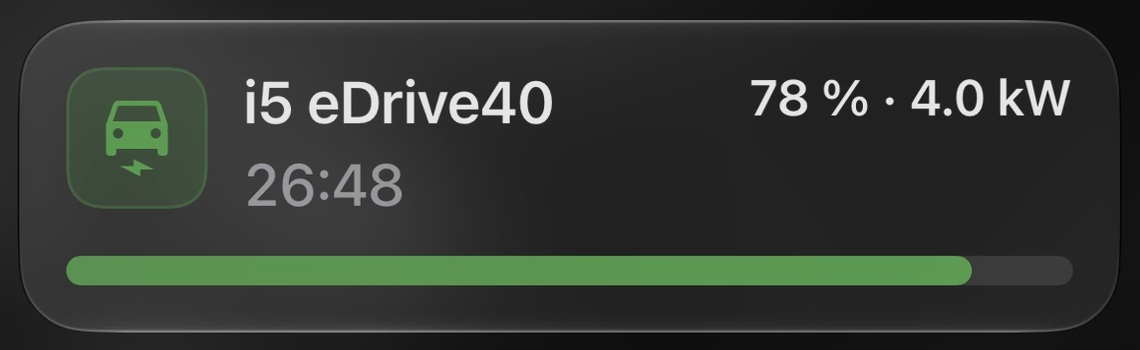
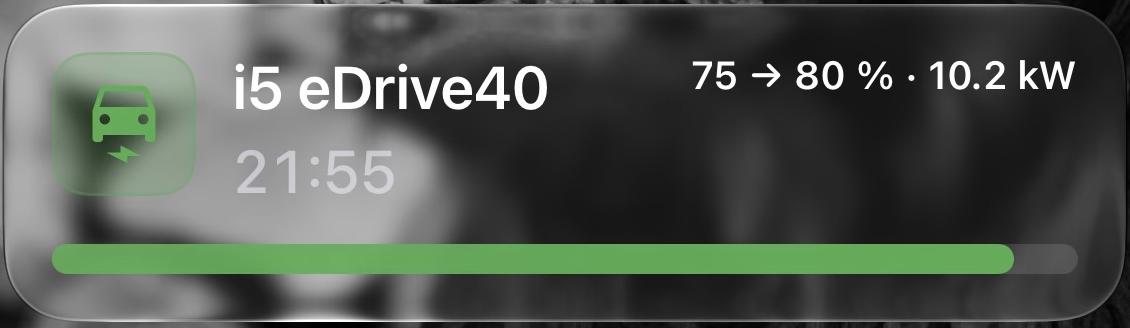
Name the target in the lock-screen card's corner
While the countdown runs it takes the message line, which hid the target.
The corner now reads "75 → 80 % · 10.2 kW". New charging picture for the
wiki, shot on the restyled card.

diff --git a/tests_ha/test_blueprint_lock_screen.py b/tests_ha/test_blueprint_lock_screen.py
@@ -138,7 +138,7 @@ async def test_a_charge_runs_from_start_to_cleared(hass: HomeAssistant, tmp_path
     assert card["live_update"] is True
     # The bar is the battery, up to the target.
     assert (card["progress"], card["progress_max"]) == (52, 80)
-    assert card["critical_text"] == f"52{NB}% · 10.8{NB}kW"
+    assert card["critical_text"] == f"52{NB}→{NB}80{NB}% · 10.8{NB}kW"
     assert card["chronometer"] is True
     assert (card["when"], card["when_relative"]) == (3600, True)
 
@@ -186,7 +186,7 @@ async def test_without_a_countdown_or_power_the_card_still_shows(hass: HomeAssis
     (first,) = calls
     assert first.data["title"] == "i5 eDrive40"
     assert first.data["message"] == f"→{NB}80{NB}%"
-    assert first.data["data"]["critical_text"] == f"52{NB}%"
+    assert first.data["data"]["critical_text"] == f"52{NB}→{NB}80{NB}%"
     assert first.data["data"]["chronometer"] is False
 
 
@@ -203,7 +203,7 @@ async def test_watts_read_as_kilowatts(hass: HomeAssistant) -> None:
     hass.bus.async_fire("bavariandata_charging_started", {"vin": VIN, "soc": 40, "target_soc": 80})
     await _settle()
 
-    assert calls[0].data["data"]["critical_text"] == f"52{NB}% · 4.0{NB}kW"
+    assert calls[0].data["data"]["critical_text"] == f"52{NB}→{NB}80{NB}% · 4.0{NB}kW"
 
 
 async def test_a_change_in_power_refreshes_the_card_at_once(hass: HomeAssistant) -> None:
@@ -228,7 +228,7 @@ async def test_a_change_in_power_refreshes_the_card_at_once(hass: HomeAssistant)
     hass.states.async_set(power, "7.2", {**hass.states.get(power).attributes})
     await _settle()
     assert len(calls) == 2
-    assert calls[-1].data["data"]["critical_text"] == f"52{NB}% · 7.2{NB}kW"
+    assert calls[-1].data["data"]["critical_text"] == f"52{NB}→{NB}80{NB}% · 7.2{NB}kW"
 
     # Measured from the card's new 7.2 kW, not from where the charge started.
     hass.states.async_set(power, "7.6", {**hass.states.get(power).attributes})
@@ -239,7 +239,7 @@ async def test_a_change_in_power_refreshes_the_card_at_once(hass: HomeAssistant)
     hass.states.async_set(power, "0", {**hass.states.get(power).attributes})
     await _settle()
     assert len(calls) == 3
-    assert calls[-1].data["data"]["critical_text"] == f"52{NB}%"
+    assert calls[-1].data["data"]["critical_text"] == f"52{NB}→{NB}80{NB}%"
 
 
 def _tracker(hass: HomeAssistant, device: str, state: str) -> str:
@@ -260,24 +260,24 @@ async def test_the_wallbox_power_is_shown_while_the_car_is_at_home(hass: HomeAss
     # The wallbox hasn't started yet: BMW's value.
     hass.bus.async_fire("bavariandata_charging_started", {"vin": VIN, "soc": 40, "target_soc": 80})
     await _settle()
-    assert calls[-1].data["data"]["critical_text"] == f"52{NB}% · 10.8{NB}kW"
+    assert calls[-1].data["data"]["critical_text"] == f"52{NB}→{NB}80{NB}% · 10.8{NB}kW"
 
     # It starts: the card switches to it at once.
     hass.states.async_set(wallbox, "4120", {**hass.states.get(wallbox).attributes})
     await _settle()
     assert len(calls) == 2
-    assert calls[-1].data["data"]["critical_text"] == f"52{NB}% · 4.1{NB}kW"
+    assert calls[-1].data["data"]["critical_text"] == f"52{NB}→{NB}80{NB}% · 4.1{NB}kW"
 
     # The current goes up; BMW's value stays where it was.
     hass.states.async_set(wallbox, "10150", {**hass.states.get(wallbox).attributes})
     await _settle()
     assert len(calls) == 3
-    assert calls[-1].data["data"]["critical_text"] == f"52{NB}% · 10.2{NB}kW"
+    assert calls[-1].data["data"]["critical_text"] == f"52{NB}→{NB}80{NB}% · 10.2{NB}kW"
 
     # Away from home the wallbox isn't this car's: BMW's value again.
     hass.states.async_set(tracker, "not_home")
     await _later(hass, 2.1)
-    assert calls[-1].data["data"]["critical_text"] == f"52{NB}% · 10.8{NB}kW"
+    assert calls[-1].data["data"]["critical_text"] == f"52{NB}→{NB}80{NB}% · 10.8{NB}kW"
 
 
 async def test_a_stop_short_of_the_target_says_so(hass: HomeAssistant) -> None:

diff --git a/docs/wiki/de/DE-Feature-Automations.md b/docs/wiki/de/DE-Feature-Automations.md
@@ -225,10 +225,11 @@ liegen, sodass Automationen daraus weiter funktionieren.
 - **Laden auf dem Sperrbildschirm** —
   [`charging_lock_screen.yaml`](https://github.com/JustChr/BavarianData/blob/main/blueprints/automation/bavariandata/charging_lock_screen.yaml).
   Solange das Auto lädt, zeigt der Sperrbildschirm deines Handys eine Karte:
-  die Batterie als Balken bis zum Ziel, den Ladestand, die Ladeleistung und
-  einen Countdown bis zum Ziel, den das Handy selbst herunterzählt.
+  die Batterie als Balken bis zum Ziel, den Ladestand mit dem Ziel, die
+  Ladeleistung und einen Countdown bis zum Ziel, den das Handy selbst
+  herunterzählt.
 
-  <img src="https://raw.githubusercontent.com/JustChr/BavarianData/main/screenshots/automation-lock-screen-charging.png?v=2026-11-02" alt="Eine Live-Aktivität auf dem Sperrbildschirm eines iPhones: der Name des Autos, 78 % · 4.0 kW in der Ecke, ein Countdown von 26:48 bis zum Ziel und ein fast voller Balken" width="420" />
+  <img src="https://raw.githubusercontent.com/JustChr/BavarianData/main/screenshots/automation-lock-screen-charging.png?v=2026-11-03" alt="Eine Live-Aktivität auf dem Sperrbildschirm eines iPhones: der Name des Autos, 75 → 80 % · 10.2 kW in der Ecke, ein Countdown von 21:55 bis zum Ziel und der Batteriebalken fast beim Ziel" width="420" />
 
   Auf einem iPhone mit Dynamic Island läuft der Countdown auch dort.
 

diff --git a/docs/wiki/Feature-Automations.md b/docs/wiki/Feature-Automations.md
@@ -215,10 +215,10 @@ integration leaves every copy, so an automation made from one keeps working.
 - **Charging on the lock screen** —
   [`charging_lock_screen.yaml`](https://github.com/JustChr/BavarianData/blob/main/blueprints/automation/bavariandata/charging_lock_screen.yaml).
   While the car charges, your phone's lock screen shows a card: the battery as
-  a bar up to the target, the battery level and the charging power, and a
-  countdown to the target that the phone runs by itself.
+  a bar up to the target, the battery level with the target and the charging
+  power, and a countdown to the target that the phone runs by itself.
 
-  <img src="https://raw.githubusercontent.com/JustChr/BavarianData/main/screenshots/automation-lock-screen-charging.png?v=2026-11-02" alt="A Live Activity on an iPhone lock screen: the car's name, 78 % · 4.0 kW in the corner, a countdown of 26:48 to the target and a bar most of the way full" width="420" />
+  <img src="https://raw.githubusercontent.com/JustChr/BavarianData/main/screenshots/automation-lock-screen-charging.png?v=2026-11-03" alt="A Live Activity on an iPhone lock screen: the car's name, 75 → 80 % · 10.2 kW in the corner, a countdown of 21:55 to the target and the battery bar nearly up to the target" width="420" />
 
   On an iPhone with a Dynamic Island, the countdown runs there too.
 

diff --git a/CHANGELOG.md b/CHANGELOG.md
@@ -12,9 +12,10 @@ stable release (v0.8.1); releases before that used auto-generated notes.
 ### Changed
 - **A clearer lock-screen card.** *Charging on the lock screen* shows the
   battery as a bar up to the target, so a charge no longer starts on an empty
-  bar. Without a countdown, the line under the car's name shows the target and
-  the energy so far (`→ 80 % · +6.3 kWh`) rather than repeating the level and
-  power from the corner. The finished card says how long the charge took, and
+  bar, and the corner names the target next to the level and the power
+  (`75 → 80 % · 10.2 kW`), where the countdown used to hide it. Without a
+  countdown, the line under the car's name shows the target and the energy so
+  far (`→ 80 % · +6.3 kWh`) rather than repeating the corner. The finished card says how long the charge took, and
   uses symbols instead of English words (`✓ 80 % · +15.9 kWh · 4.07 EUR · 1 h
   52 min`, or `61 % / 80 %` short of the target), so it reads the same in every
   language.
